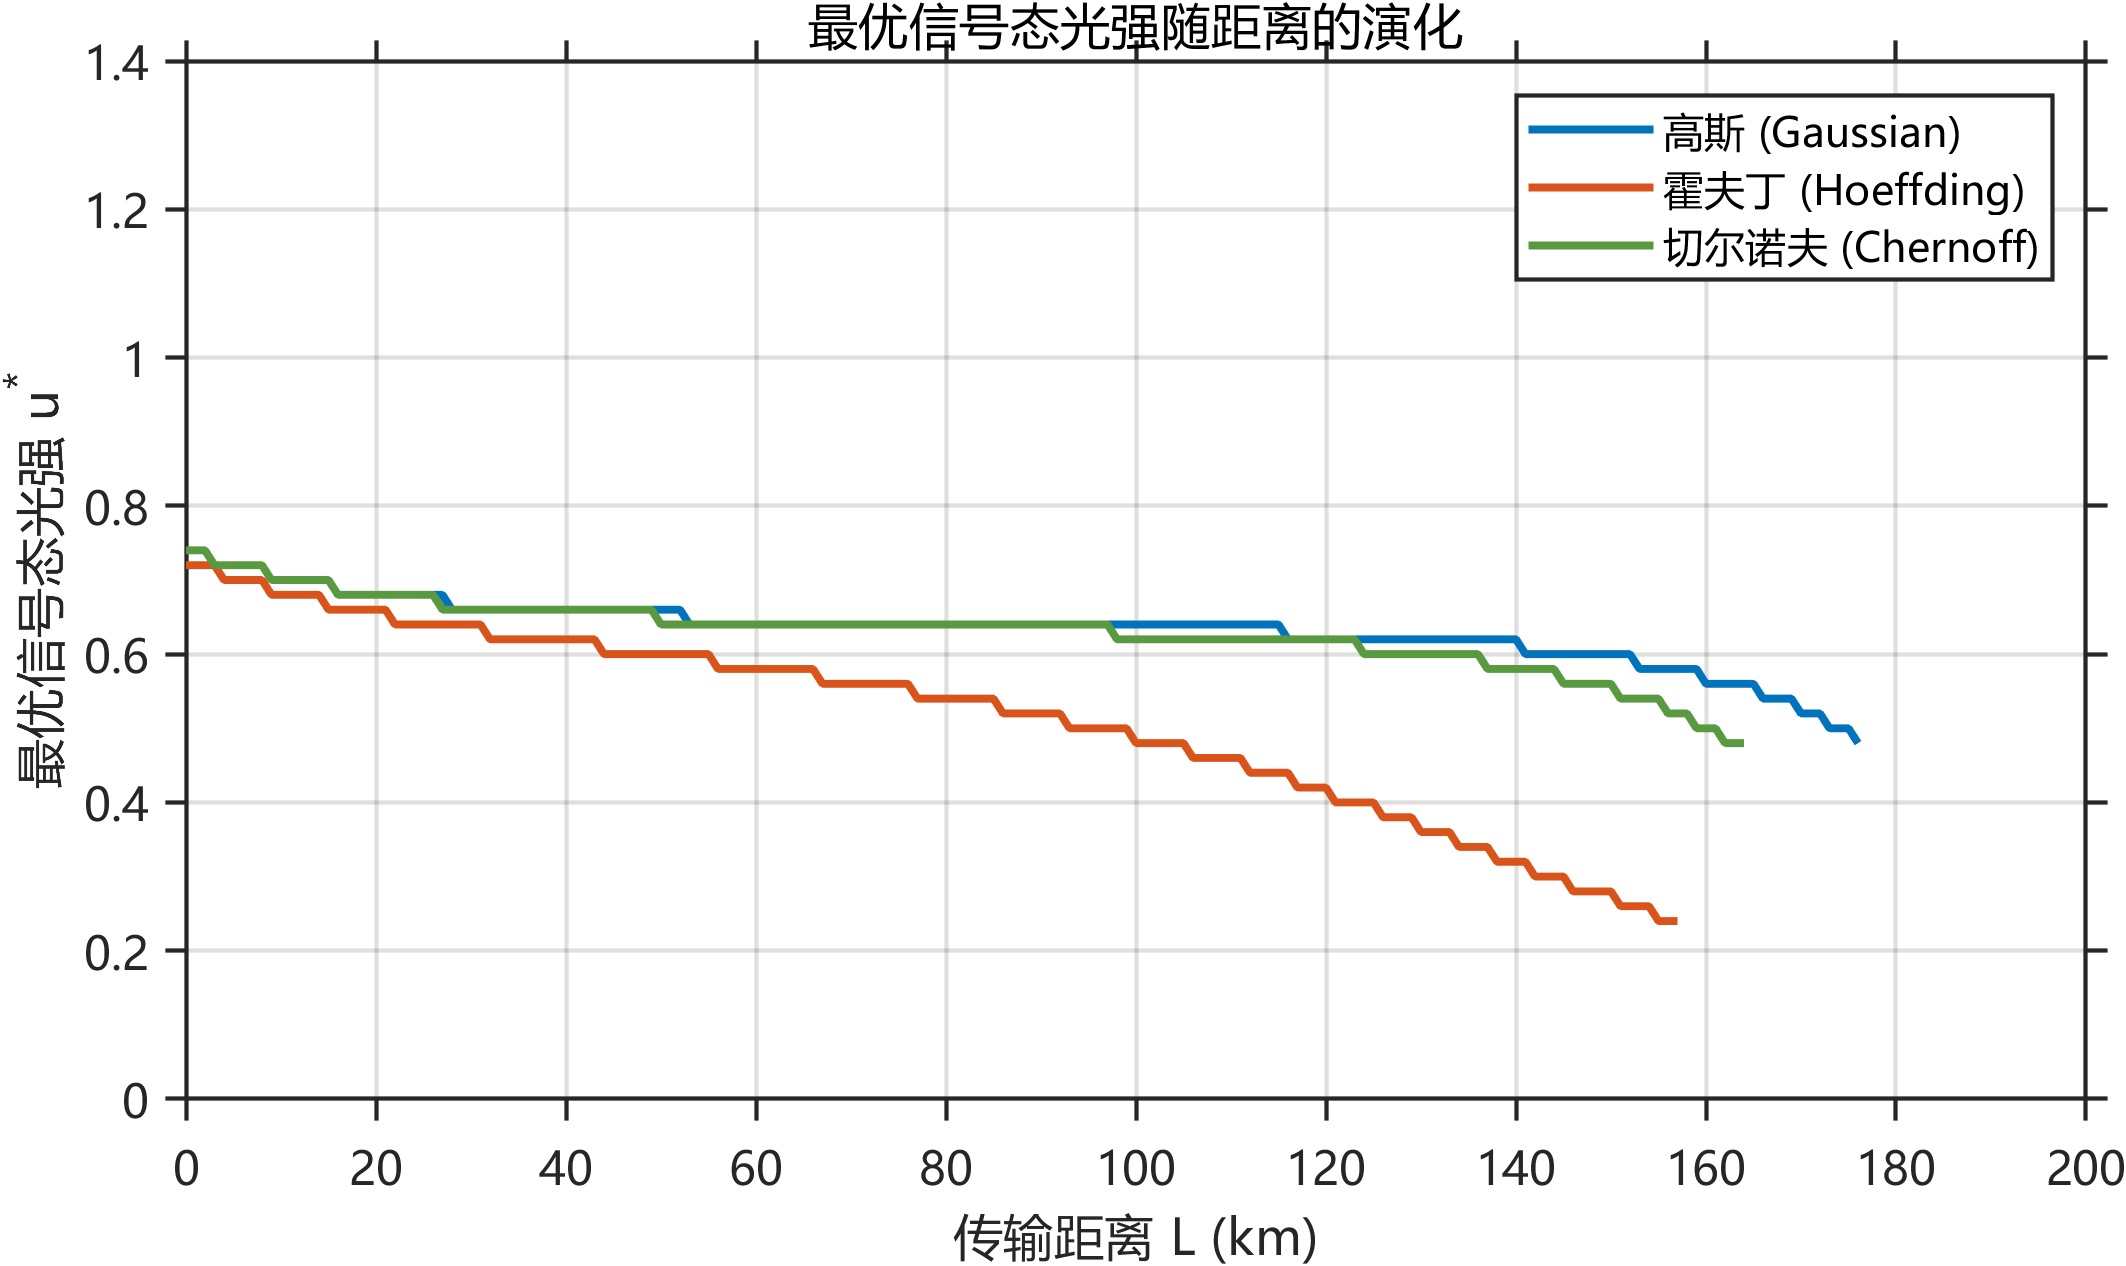
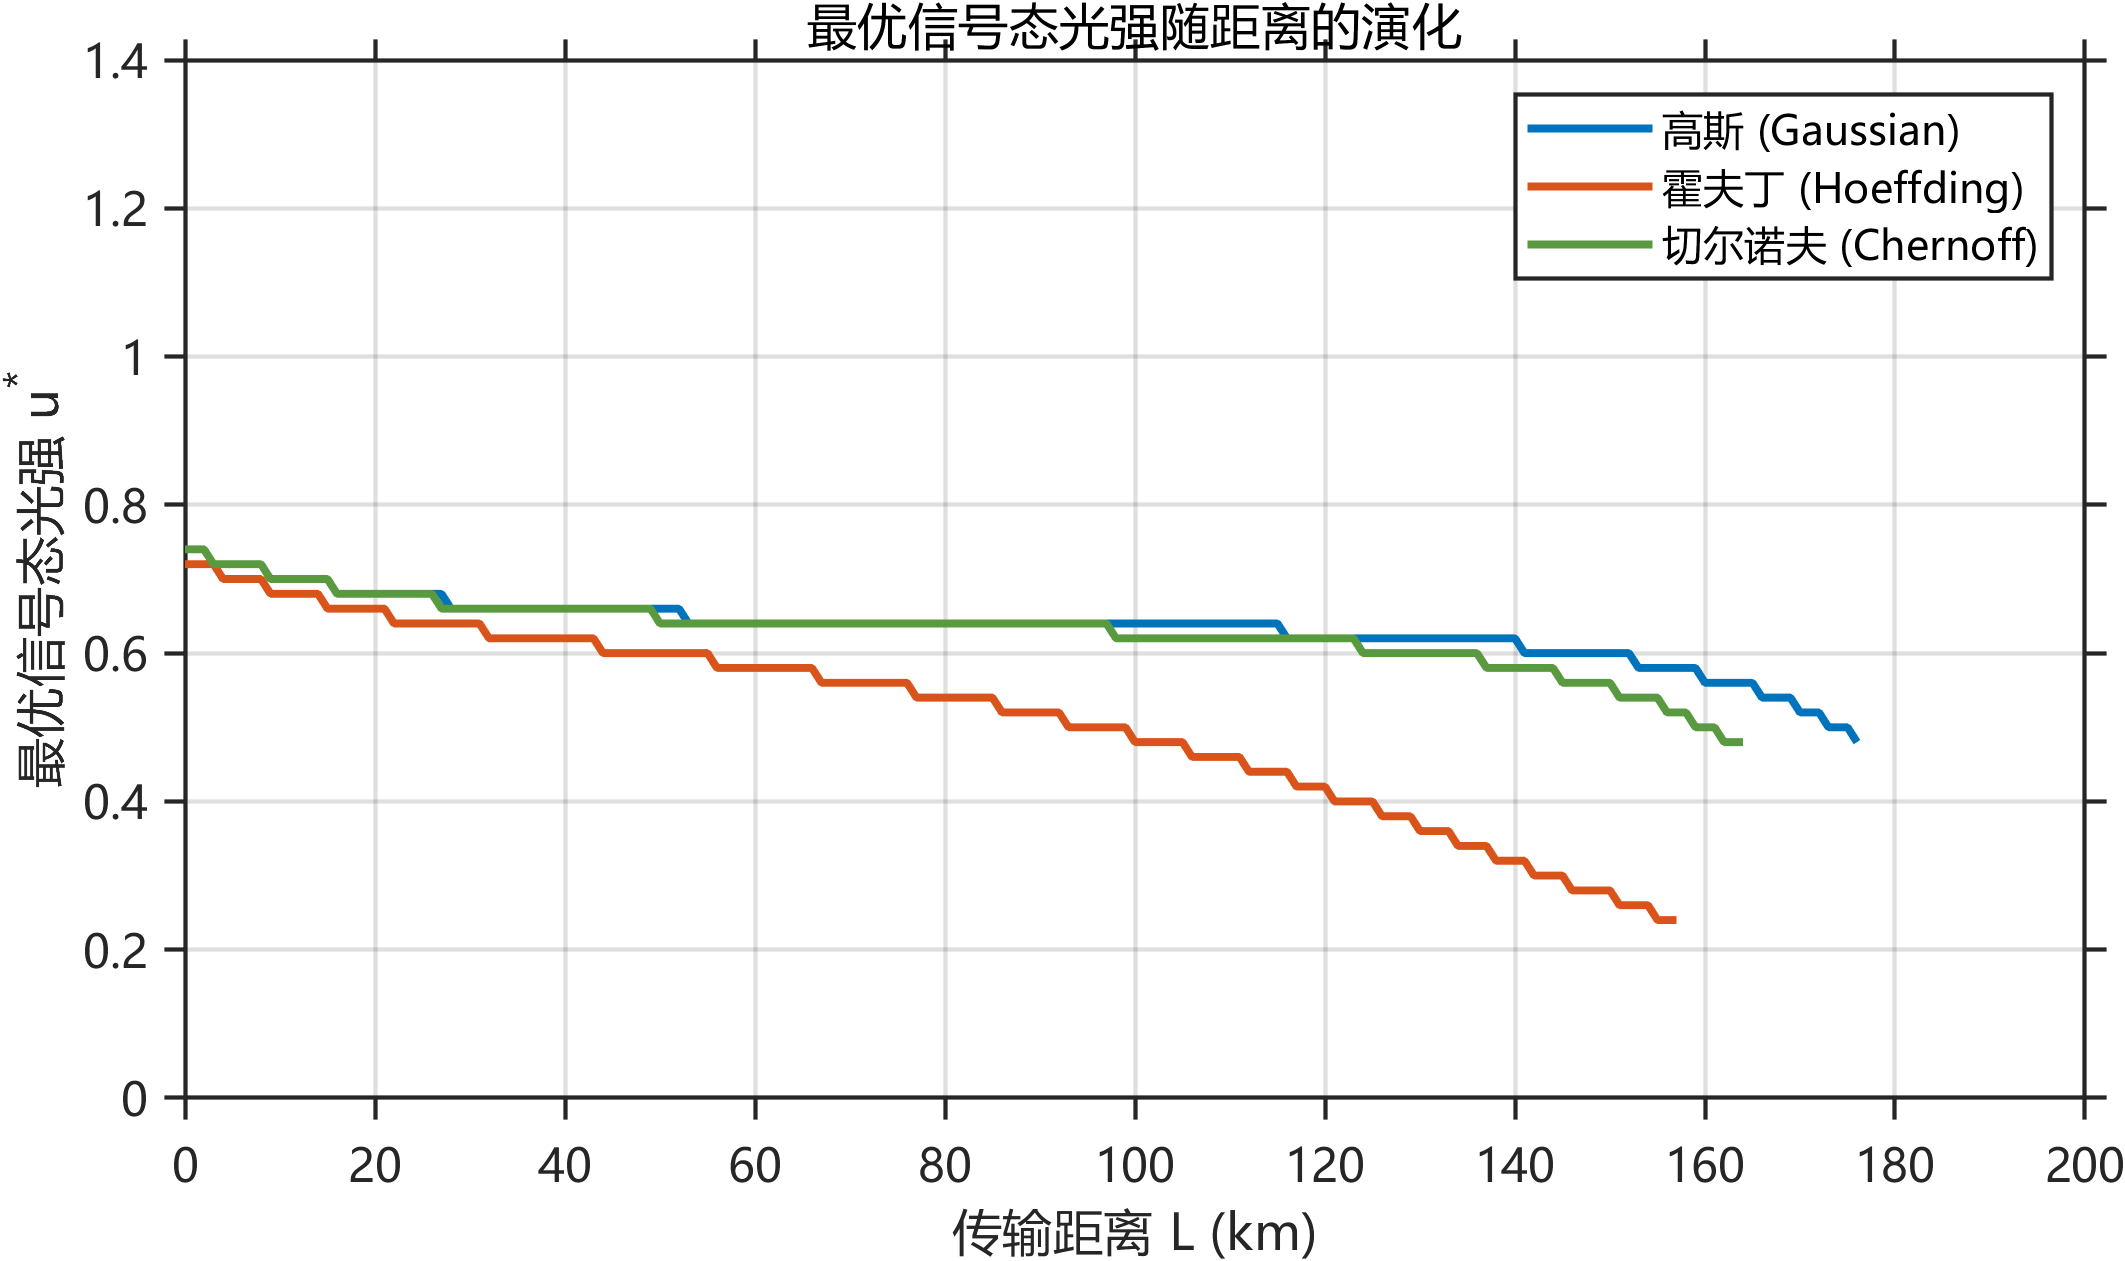
feat(font): 中文字体跨平台探测 cjkFont
- 新增 cjkFont.m：按 Windows/macOS/Linux 依次探测可用中文字体
- QKDApp/newFig/run_task1-3 改用 cjkFont()，队友在 macOS/Linux 克隆后不再出现方框字
- 重新生成 results/ 下全部 PNG 与 CSV
- README 补跨平台字体说明与结果数值

diff --git a/QKDApp.m b/QKDApp.m
@@ -66,7 +66,7 @@ classdef QKDApp < handle
 
             % ---------- 左侧：参数与设置 ----------
             pnl = uipanel(app.UIFigure, 'Title', '参数与计算设置', ...
-                          'Position', [12 12 430 796], 'FontName', 'Microsoft YaHei', ...
+                          'Position', [12 12 430 796], 'FontName', cjkFont(), ...
                           'FontSize', 11, 'BackgroundColor', [0.96 0.96 0.97]);
 
             data = cell(numel(app.KEYS), 2);
@@ -77,72 +77,72 @@ classdef QKDApp < handle
             app.tblParams = uitable(pnl, 'Data', data, ...
                 'ColumnName', {'参数', '取值'}, 'ColumnFormat', {'char', 'char'}, ...
                 'ColumnEditable', [false true], 'ColumnWidth', {232 122}, ...
-                'RowName', [], 'FontName', 'Microsoft YaHei', 'FontSize', 9, ...
+                'RowName', [], 'FontName', cjkFont(), 'FontSize', 9, ...
                 'Position', [10 438 410 332], ...
                 'CellEditCallback', @(~, e) app.onEditParam(e));
 
             % ---- 计算设置 ----
             y = 412;
             uilabel(pnl, 'Text', '统计起伏方法', 'Position', [14 y 120 22], ...
-                    'FontName', 'Microsoft YaHei');
+                    'FontName', cjkFont());
             app.ddlMethod = uidropdown(pnl, 'Position', [138 y-3 278 26], ...
                 'Items', {'高斯 (Gaussian)', '霍夫丁 (Hoeffding)', '切尔诺夫 (Chernoff)'}, ...
                 'ItemsData', {'gauss', 'hoeffding', 'chernoff'}, ...
-                'Value', 'gauss', 'FontName', 'Microsoft YaHei');
+                'Value', 'gauss', 'FontName', cjkFont());
 
             y = y - 34;
             uilabel(pnl, 'Text', '发射脉冲数 N', 'Position', [14 y 120 22], ...
-                    'FontName', 'Microsoft YaHei');
+                    'FontName', cjkFont());
             app.edN = uieditfield(pnl, 'numeric', 'Position', [138 y-3 278 26], ...
                                   'Value', 1e9, 'Limits', [1e4 1e14]);
 
             y = y - 34;
             uilabel(pnl, 'Text', '失败概率 eps', 'Position', [14 y 120 22], ...
-                    'FontName', 'Microsoft YaHei');
+                    'FontName', cjkFont());
             app.edEps = uieditfield(pnl, 'numeric', 'Position', [138 y-3 278 26], ...
                                     'Value', 1e-7, 'Limits', [1e-15 1e-2]);
 
             y = y - 34;
             uilabel(pnl, 'Text', '优化方式', 'Position', [14 y 120 22], ...
-                    'FontName', 'Microsoft YaHei');
+                    'FontName', cjkFont());
             app.ddlOpt = uidropdown(pnl, 'Position', [138 y-3 278 26], ...
                 'Items', {'不优化', '仅优化信号态 u', '全局优化 (u, v, P_u, P_v)'}, ...
                 'ItemsData', {'none', 'u', 'global'}, ...
-                'Value', 'none', 'FontName', 'Microsoft YaHei');
+                'Value', 'none', 'FontName', cjkFont());
 
             y = y - 34;
             uilabel(pnl, 'Text', '最大距离 (km)', 'Position', [14 y 108 22], ...
-                    'FontName', 'Microsoft YaHei');
+                    'FontName', cjkFont());
             app.edLmax = uieditfield(pnl, 'numeric', 'Position', [130 y-3 120 26], ...
                                      'Value', 300, 'Limits', [10 1000]);
             uilabel(pnl, 'Text', '步长 (km)', 'Position', [262 y 58 22], ...
-                    'FontName', 'Microsoft YaHei');
+                    'FontName', cjkFont());
             app.edLstep = uieditfield(pnl, 'numeric', 'Position', [322 y-3 94 26], ...
                                       'Value', 1, 'Limits', [0.1 20]);
 
             % ---- 按钮 ----
             by = 226;
             app.btnRun = uibutton(pnl, 'Text', '运行并叠加曲线', ...
-                'Position', [10 by 146 34], 'FontName', 'Microsoft YaHei', ...
+                'Position', [10 by 146 34], 'FontName', cjkFont(), ...
                 'FontWeight', 'bold', 'BackgroundColor', [0.20 0.50 0.85], ...
                 'FontColor', [1 1 1], 'ButtonPushedFcn', @(~, ~) app.runSim());
             app.btnClear = uibutton(pnl, 'Text', '清空曲线', ...
-                'Position', [166 by 112 34], 'FontName', 'Microsoft YaHei', ...
+                'Position', [166 by 112 34], 'FontName', cjkFont(), ...
                 'ButtonPushedFcn', @(~, ~) app.clearCurves());
             app.btnExport = uibutton(pnl, 'Text', '导出 PNG', ...
-                'Position', [288 by 128 34], 'FontName', 'Microsoft YaHei', ...
+                'Position', [288 by 128 34], 'FontName', cjkFont(), ...
                 'ButtonPushedFcn', @(~, ~) app.exportPNG());
 
             % ---- 日志 ----
             app.txtLog = uitextarea(pnl, 'Position', [10 10 410 200], ...
-                'Editable', 'off', 'FontName', 'Microsoft YaHei', 'FontSize', 10, ...
+                'Editable', 'off', 'FontName', cjkFont(), 'FontSize', 10, ...
                 'Value', {'就绪：修改参数后点击“运行并叠加曲线”。', ...
                           '多次运行会叠加不同配置的曲线，便于对比。'});
 
             % ---------- 右侧：曲线区 ----------
             app.ax = uiaxes(app.UIFigure, 'Position', [460 40 760 770]);
             app.ax.YScale  = 'log';
-            app.ax.FontName = 'Microsoft YaHei';
+            app.ax.FontName = cjkFont();
             app.ax.FontSize = 11;
             app.ax.XGrid = 'on';  app.ax.YGrid = 'on';
             app.ax.XMinorGrid = 'off';  app.ax.YMinorGrid = 'off';
@@ -270,7 +270,7 @@ classdef QKDApp < handle
             else
                 title(app.ax, sprintf('密钥率对比（共 %d 条曲线）', numel(app.curves)));
                 lg = legend(app.ax, 'Location', 'northeast');
-                lg.FontName = 'Microsoft YaHei';
+                lg.FontName = cjkFont();
                 lg.FontSize = 9;
                 lg.Interpreter = 'tex';
             end

diff --git a/cjkFont.m b/cjkFont.m
@@ -1,0 +1,52 @@
+function name = cjkFont()
+%CJKFONT 返回当前系统可用的中文字体名，供 uifigure / axes / legend 使用
+%
+%   name = cjkFont()
+%
+%   仓库里所有中文标注都通过本函数取字体，避免队友在 macOS 或 Linux
+%   上克隆后出现方框字（Windows 的 Microsoft YaHei 在那些系统上不存在）。
+%
+%   匹配规则：优先精确匹配，其次前缀匹配（MATLAB 的 listfonts 里常常是
+%   "Microsoft YaHei UI" 这种变体，而 "Microsoft YaHei" 本身并不出现在列表里，
+%   但直接使用是有效的）。全都找不到时退回 Helvetica，中文会显示为方框，
+%   但代码不会报错。
+
+persistent cached
+if ~isempty(cached)
+    name = cached;
+    return
+end
+
+switch computer('arch')
+    case {'maci64', 'maca64'}
+        candidates = {'PingFang SC', 'Heiti SC', 'STHeiti', 'Songti SC'};
+    case {'glnxa64', 'glnx64'}
+        candidates = {'Noto Sans CJK SC', 'Noto Sans SC', 'Source Han Sans SC', ...
+                      'WenQuanYi Zen Hei', 'WenQuanYi Micro Hei', 'AR PL UMing CN'};
+    otherwise
+        candidates = {'Microsoft YaHei', 'SimHei', 'SimSun', 'DengXian'};
+end
+
+name = 'Helvetica';
+try
+    installed = listfonts();
+    for k = 1:numel(candidates)
+        % 精确匹配
+        if any(strcmpi(installed, candidates{k}))
+            name = candidates{k};
+            break
+        end
+        % 前缀匹配：Microsoft YaHei -> Microsoft YaHei UI
+        hit = installed(strncmpi(installed, candidates{k}, numel(candidates{k})));
+        if ~isempty(hit)
+            name = hit{1};
+            break
+        end
+    end
+catch
+    % listfonts 在某些无头环境下可能失败，退回平台首选字体
+    name = candidates{1};
+end
+
+cached = name;
+end

diff --git a/run_task2.m b/run_task2.m
@@ -31,7 +31,7 @@ set(ax, 'XLim', [0 210], 'YLim', [1e-12 5e-2]);
 xlabel(ax, '传输距离 L (km)');
 ylabel(ax, '安全密钥率 R (bit/pulse)');
 title(ax, sprintf('N = 10^9 时三种统计起伏方法对比（逐距离优化信号态 u）'));
-legend(ax, 'Location', 'northeast', 'FontName', 'Microsoft YaHei');
+legend(ax, 'Location', 'northeast', 'FontName', cjkFont());
 grid(ax, 'on');
 
 saveResult(f, 'fig2_three_methods', res{end});
@@ -47,7 +47,7 @@ set(ax2, 'XLim', [0 200], 'YLim', [0 1.4]);
 xlabel(ax2, '传输距离 L (km)');
 ylabel(ax2, '最优信号态光强 u^*');
 title(ax2, '最优信号态光强随距离的演化');
-legend(ax2, 'Location', 'northeast', 'FontName', 'Microsoft YaHei');
+legend(ax2, 'Location', 'northeast', 'FontName', cjkFont());
 grid(ax2, 'on');
 saveResult(f2, 'fig2b_optimal_u', res{end});
 

diff --git a/run_task3.m b/run_task3.m
@@ -27,7 +27,7 @@ set(ax, 'XLim', [0 220], 'YLim', [1e-12 5e-2]);
 xlabel(ax, '传输距离 L (km)');
 ylabel(ax, '安全密钥率 R (bit/pulse)');
 title(ax, '切尔诺夫统计起伏：全局优化 (u, v, P_u, P_v) 前后的密钥率');
-legend(ax, 'Location', 'northeast', 'FontName', 'Microsoft YaHei');
+legend(ax, 'Location', 'northeast', 'FontName', cjkFont());
 grid(ax, 'on');
 
 saveResult(f, 'fig3_chernoff_global', g);
@@ -43,7 +43,7 @@ set(ax2, 'XLim', [0 200], 'YLim', [0 1.0]);
 xlabel(ax2, '传输距离 L (km)');
 ylabel(ax2, '优化后的参数值');
 title(ax2, '全局优化得到的参数随距离演化');
-legend(ax2, 'Location', 'northeast', 'FontName', 'Microsoft YaHei');
+legend(ax2, 'Location', 'northeast', 'FontName', cjkFont());
 grid(ax2, 'on');
 saveResult(f2, 'fig3b_optimal_params', g);
 

diff --git a/newFig.m b/newFig.m
@@ -8,7 +8,7 @@ if nargin < 2, h = 540; end
 f  = figure('Color', 'w', 'Position', [120 100 w h], 'Visible', 'off');
 ax = axes('Parent', f);
 hold(ax, 'on');
-set(ax, 'FontName', 'Microsoft YaHei', 'FontSize', 11, 'LineWidth', 1.0, ...
+set(ax, 'FontName', cjkFont(), 'FontSize', 11, 'LineWidth', 1.0, ...
         'Box', 'on', 'TickDir', 'out', 'XGrid', 'on', 'YGrid', 'on', ...
         'GridAlpha', 0.15, 'YScale', 'log', ...
         'XMinorGrid', 'off', 'YMinorGrid', 'off');

diff --git a/run_task1.m b/run_task1.m
@@ -28,7 +28,7 @@ set(ax, 'XLim', [0 220], 'YLim', [1e-12 5e-2]);
 xlabel(ax, '传输距离 L (km)');
 ylabel(ax, '安全密钥率 R (bit/pulse)');
 title(ax, '高斯统计起伏：不同发射脉冲数下的密钥率（未优化）');
-legend(ax, 'Location', 'northeast', 'FontName', 'Microsoft YaHei');
+legend(ax, 'Location', 'northeast', 'FontName', cjkFont());
 grid(ax, 'on');
 
 saveResult(f, 'fig1_gauss_threeN', res{end});

diff --git a/README.md b/README.md
@@ -8,7 +8,7 @@
 
 纯 MATLAB 实现（R2020a 起），不依赖任何工具箱，含代码化 GUI。
 
-[![CI](https://github.com/OWNER/qkd_decoy_sim/actions/workflows/ci.yml/badge.svg)](https://github.com/OWNER/qkd_decoy_sim/actions/workflows/ci.yml)
+[![CI](https://github.com/MungBean2435/qkd_decoy_sim/actions/workflows/ci.yml/badge.svg)](https://github.com/MungBean2435/qkd_decoy_sim/actions/workflows/ci.yml)
 [![License: MIT](https://img.shields.io/badge/License-MIT-blue.svg)](LICENSE)
 
 ---
@@ -47,16 +47,20 @@ runTests        % 回归自检，全 PASS 说明计算链正常
 批量出图并写入 `results/`：
 
 ```matlab
-run_task1       % 图1：高斯起伏，N = 1e8 / 1e9 / 1e10，不优化
-run_task2       % 图2：高斯 / 霍夫丁 / 切尔诺夫，N = 1e9，逐距离优化 u
-run_task3       % 图3：切尔诺夫，N = 1e9，全局优化 (u, v, P_u, P_v)
-verify          % 一致性核查，写 results/verify.log
+run_task1        % 图1：高斯起伏，N = 1e8 / 1e9 / 1e10，不优化
+run_task2        % 图2：高斯 / 霍夫丁 / 切尔诺夫，N = 1e9，逐距离优化 u
+run_task3        % 图3：切尔诺夫，N = 1e9，全局优化 (u, v, P_u, P_v)
+verify           % 一致性核查，写 results/verify.log
 exportReportData % 报告用数值表 results/report_tables.csv
 ```
 
+> **跨平台字体**：所有中文标注统一走 [`cjkFont.m`](cjkFont.m)，
+> 自动在 Windows（微软雅黑）、macOS（PingFang SC）、Linux（Noto Sans CJK）
+> 中挑一个已安装的，队友不会因为缺字体看到方框或报错。
+
 ## 三、当前结果
 
-三种方法在 $N=10^9,\ \varepsilon=10^{-7}$、未优化参数下的关键数值：
+三种方法在 $N=10^9,\ \varepsilon=10^{-7}$、题目给定未优化参数下的关键数值：
 
 | 方法 | $R(0)$ | $R(100\,\mathrm{km})$ | 最远成码距离 |
 | --- | --- | --- | --- |
@@ -96,6 +100,7 @@ qkd_decoy_sim/
 ├── launch.m              # 一键启动 GUI
 ├── run_task1/2/3.m       # 三个任务的出图脚本（只调内核 + 画图）
 ├── newFig.m saveResult.m # 出图与存盘工具
+├── cjkFont.m             # 跨平台中文字体探测
 ├── runTests.m            # 回归自检（CI 调用）
 ├── selfTest.m verify.m smokeGUI.m exportReportData.m
 ├── results/              # 生成的 PNG + CSV（.fig 已忽略）
